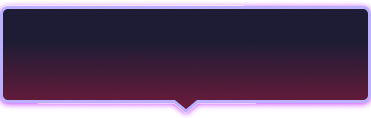
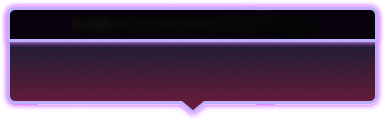
фикс менюшек v2

diff --git a/frontend/app.vue b/frontend/app.vue
@@ -230,13 +230,15 @@
         </div>
          <!-- Контейнер для кнопок в зависимости от активной вкладки -->
     <!-- app.vue -->
-  <div class="menu-buttons-container">
+  <!-- Обновленный блок menu-buttons-container -->
+<div class="menu-buttons-container">
   <div 
     v-for="btn in menuButtons" 
     :key="btn.id"
     class="menu-button"
     :class="{
-      selected: btn.selected,
+      'selected': btn.selected,
+      'confirmed': btn.confirmed, // Добавлен класс для подтвержденных ставок
       'text-button': activeTab === 'result' || activeTab === 'overtaking',
       'button-visible': isButtonVisible(btn),
       'has-bet': btn.betAmount > 0,
@@ -1097,7 +1099,12 @@ const checkBetsResults = () => {
       }
     }, 3000);
   }
-  
+  // Сбрасываем состояния кнопок после проверки ставок
+  menuButtons.value.forEach(b => {
+    b.selected = false;
+    b.confirmed = false;
+    b.betAmount = 0;
+  });
   betHistory.value.push(...currentRaceBets.value);
   currentRaceBets.value = [];
   unlockAllBugs();
@@ -1342,7 +1349,7 @@ const placeBet = () => {
     if (overtaker !== null) lockedBugs.value.add(overtaker);
     if (overtaken !== null) lockedBugs.value.add(overtaken);
   }
-
+  
   if (currentBet.value <= 0) {
     infoMessage.value = t('enter_bet_amount');
     infoNotificationVisible.value = true;
@@ -1393,6 +1400,7 @@ const placeBet = () => {
       betsPlaced = true;
       selectedButtons.forEach(button => {
       button.betAmount = totalBetAmount / selectedButtons.length;
+      button.confirmed = true; // Помечаем кнопку как подтвержденную
     });
     }
      
@@ -1446,6 +1454,16 @@ const placeBet = () => {
     infoMessage.value = t('select_bet_option');
     infoNotificationVisible.value = true;
     setTimeout(() => infoNotificationVisible.value = false, 3000);
+  }
+if (betsPlaced) {
+    // Помечаем выбранные кнопки как подтвержденные
+    menuButtons.value.forEach(btn => {
+      if (btn.selected) {
+        btn.confirmed = true;
+      }
+    });
+    
+    resetAllBets();
   }
 };
 // Автоматическое обновление меню после гонки
@@ -3695,9 +3713,19 @@ const getButtonStyle = (btn) => {
   
 }
 
+/* Обновленные стили для состояний кнопок */
 .menu-button.selected {
-  background-color: #000 !important; /* Черный фон */
-  box-shadow: 0 0 8px rgba(255, 255, 255, 0.8) !important; /* Белая тень */
+  background-color: #000 !important;
+  box-shadow: 0 0 8px rgba(255, 255, 255, 0.8) !important;
+}
+.menu-button.confirmed {
+  background: linear-gradient(180deg, #3C42E3 0%, #2A2FBF 100%) !important;
+}
+
+
+/* Скрываем белый фон коэффициента при выборе */
+.menu-button.selected .coefficient-bg {
+  display: none;
 }
 /* Стили для текста внутри выбранной кнопки */
 .menu-button.selected .coefficient-text,
@@ -3705,10 +3733,7 @@ const getButtonStyle = (btn) => {
   color: white !important; /* Белый текст */
 }
 
-/* Скрываем белый фон коэффициента при выборе */
-.menu-button.selected .coefficient-bg {
-  display: none;
-}
+
 
 .group-164-button {
   transition: transform 0.3s ease, filter 0.3s ease;
@@ -3815,6 +3840,15 @@ const getButtonStyle = (btn) => {
   transform: scale(1.1);
   z-index: 15;
 }
+.menu-button.confirmed {
+  background: linear-gradient(180deg, #3C42E3 0%, #2A2FBF 100%) !important;
+}
+
+.menu-button.confirmed .coefficient-text,
+.menu-button.confirmed .bet-amount-display {
+  color: white !important;
+}
+
 
 /* Усиленная анимация для выбранного состояния */
 .bug-button.selected .bug-image {
